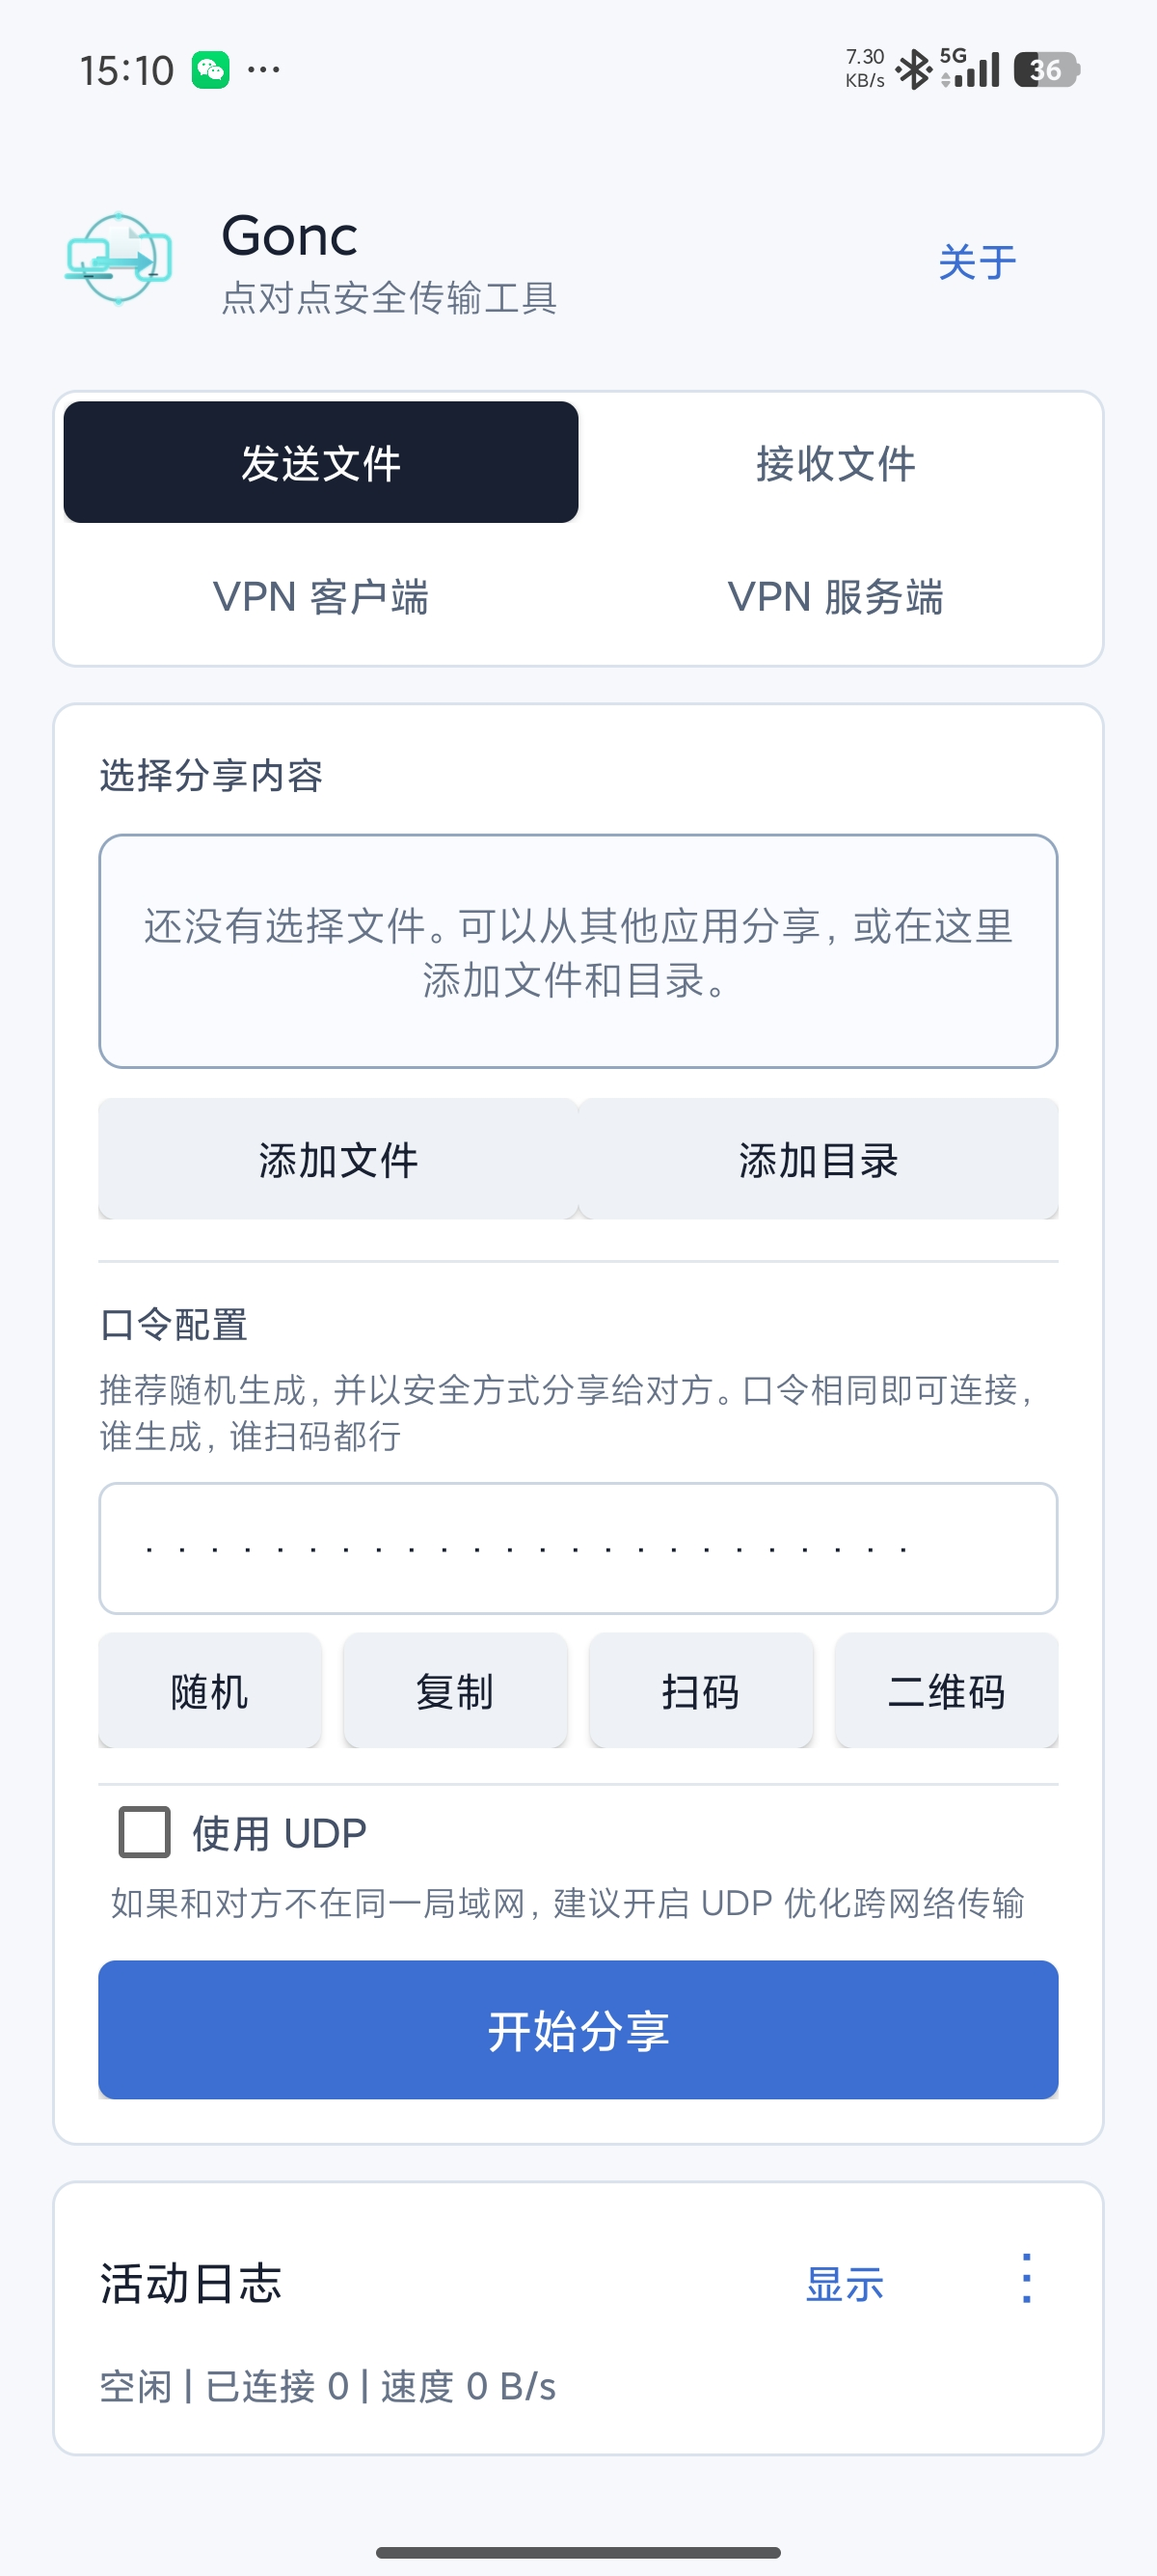
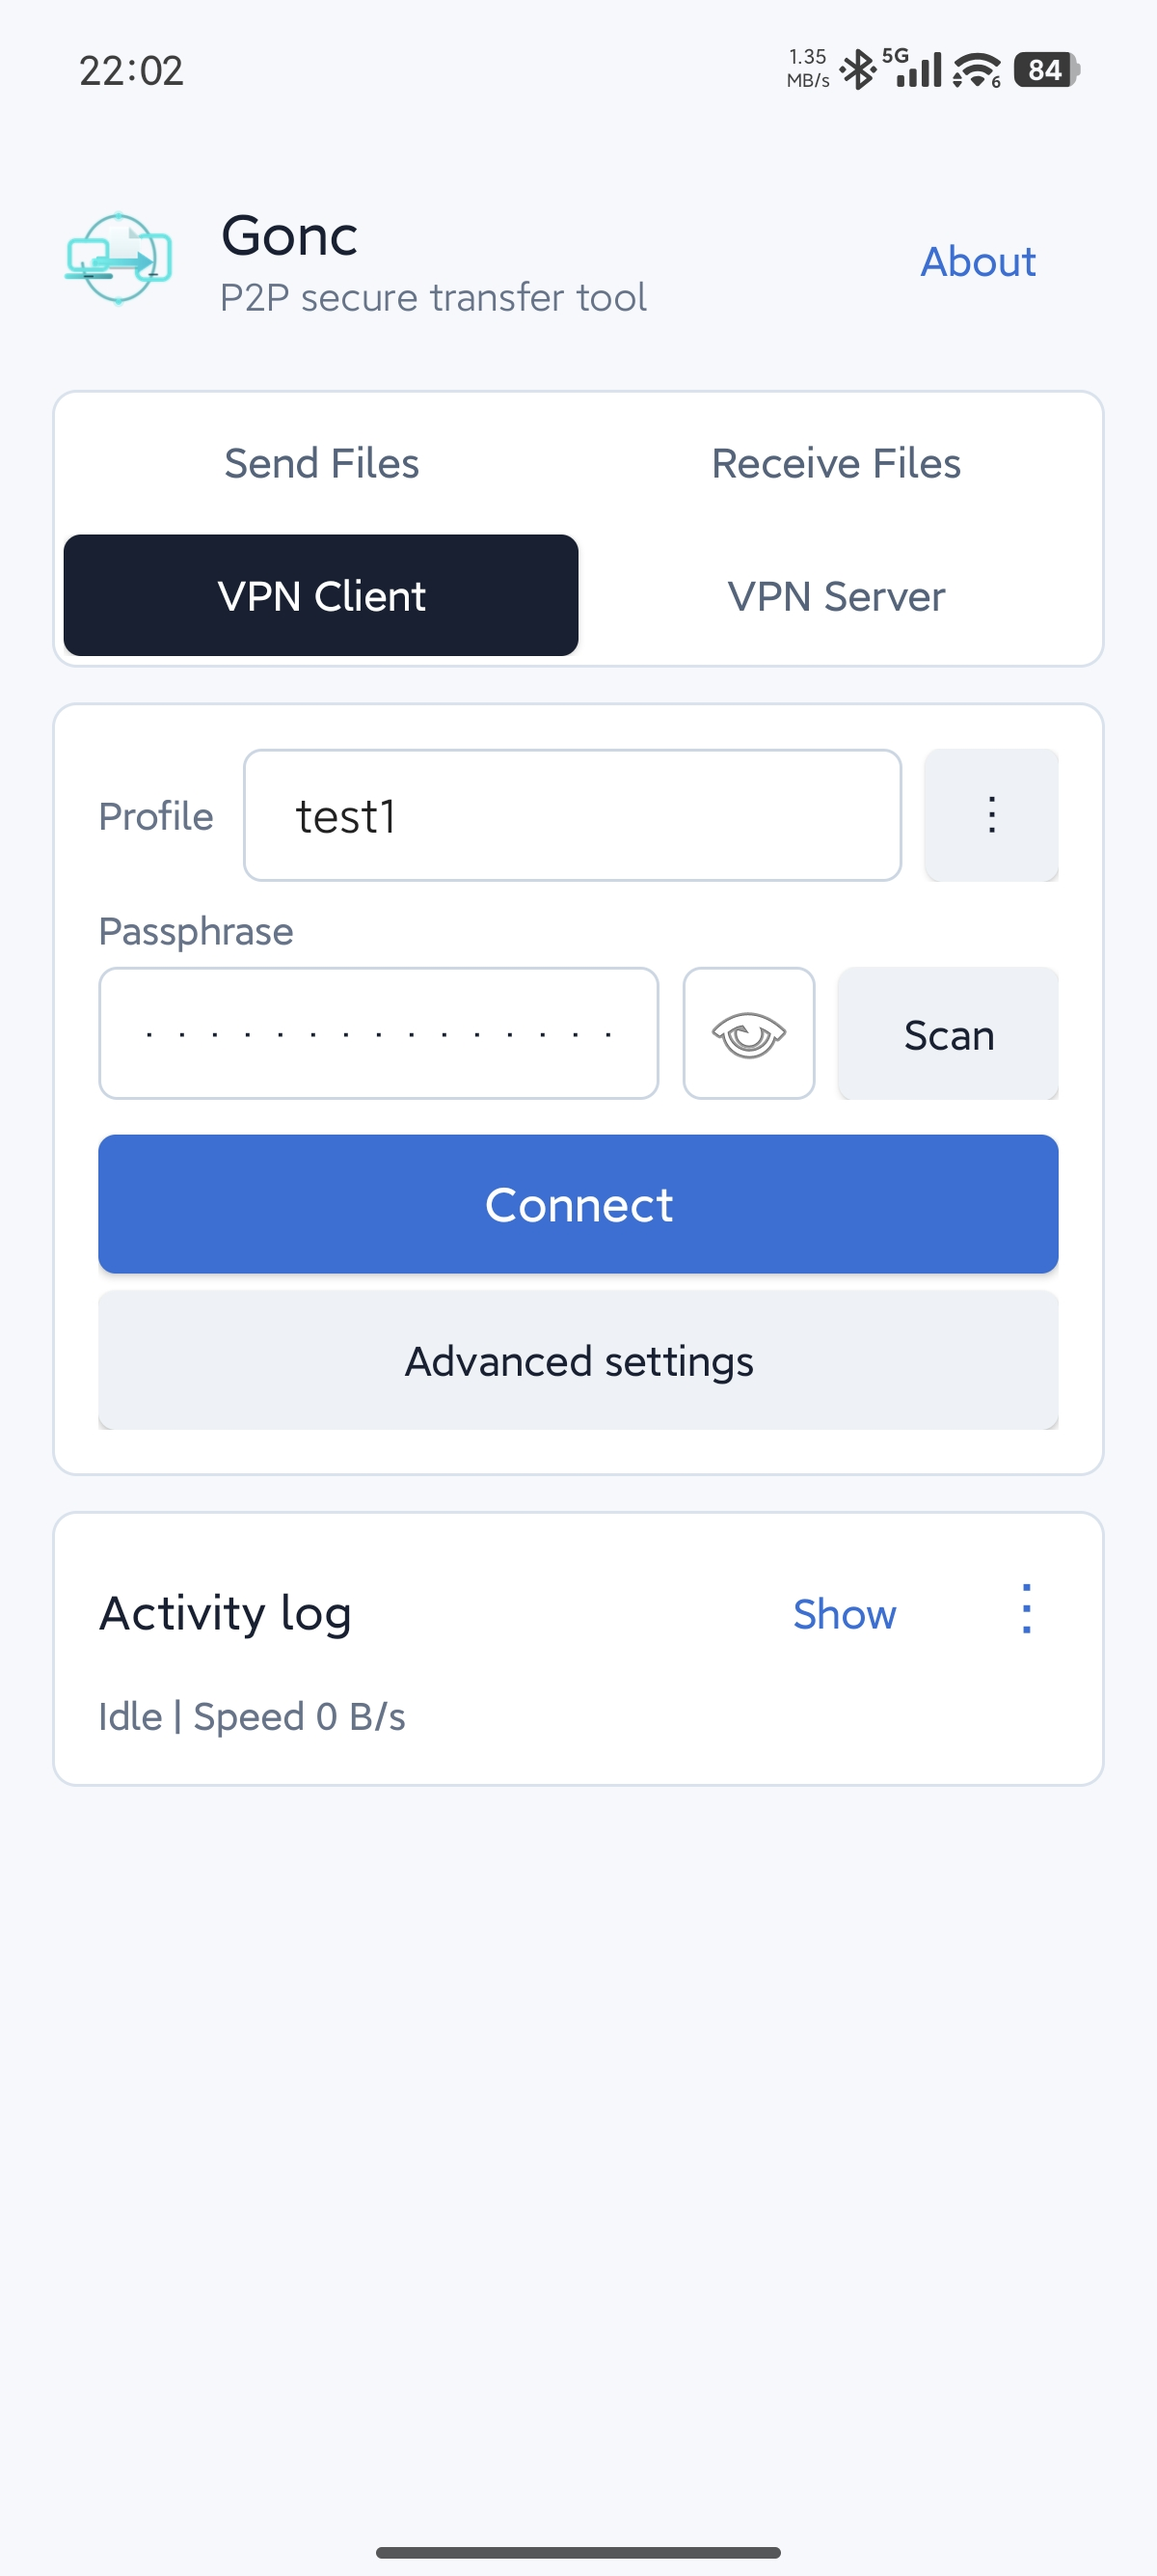
update readme

diff --git a/README.md b/README.md
@@ -7,7 +7,7 @@ files directly whenever the network allows it. No account, no cloud upload, no
 file size gate. It also includes a VPN mode for building an encrypted tunnel
 between your own devices.
 
-![Gonc desktop file sender](ui-pc1.jpg)
+![Gonc desktop file sender](ui-pc.gif)
 
 <p>
   <img src="ui-android1.jpg" alt="Gonc Android file sender" width="360">
